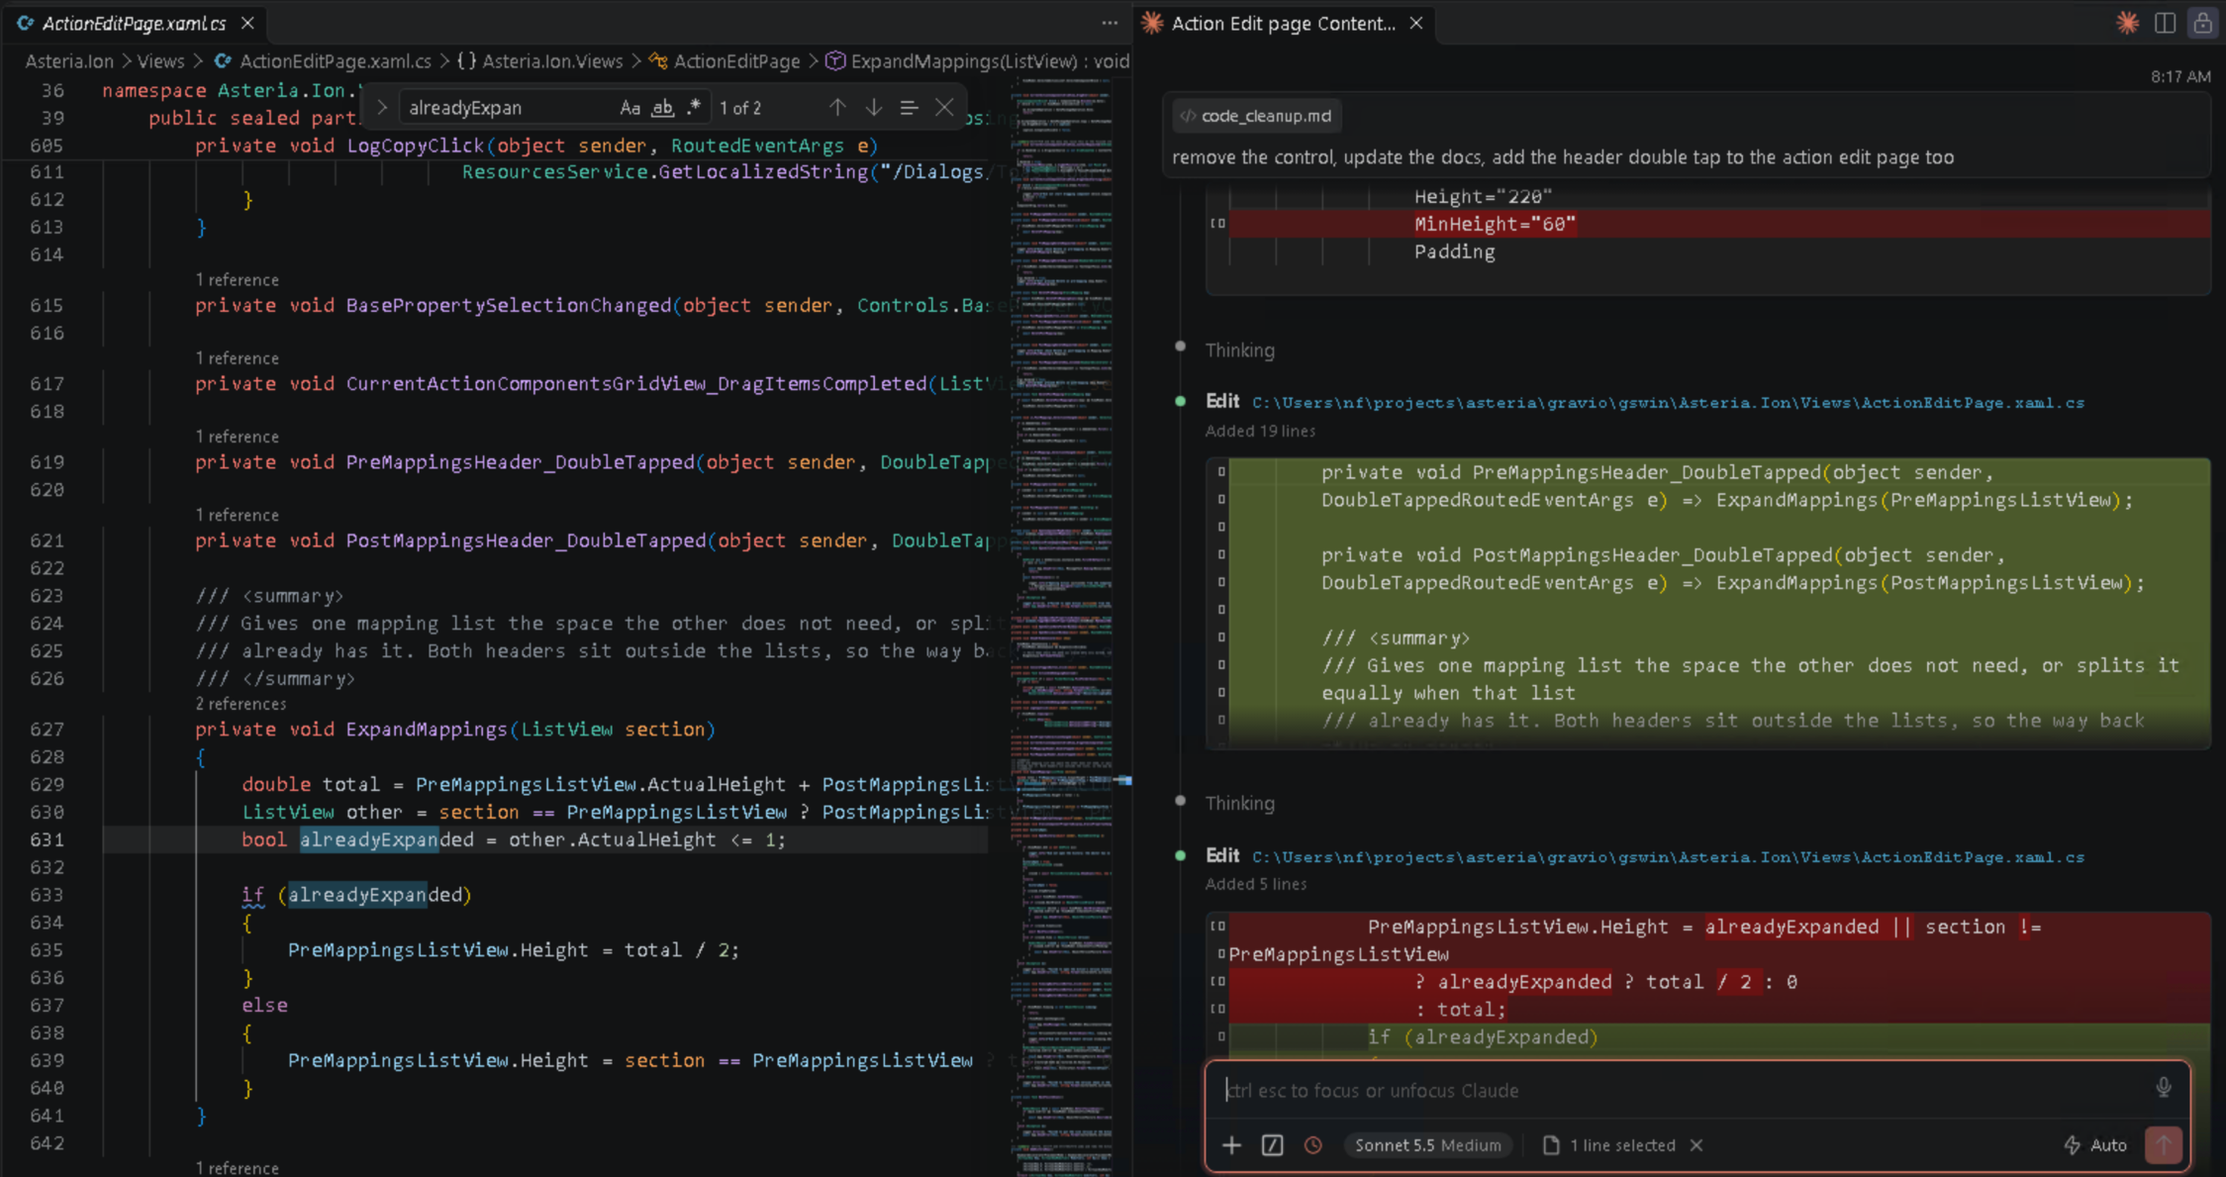
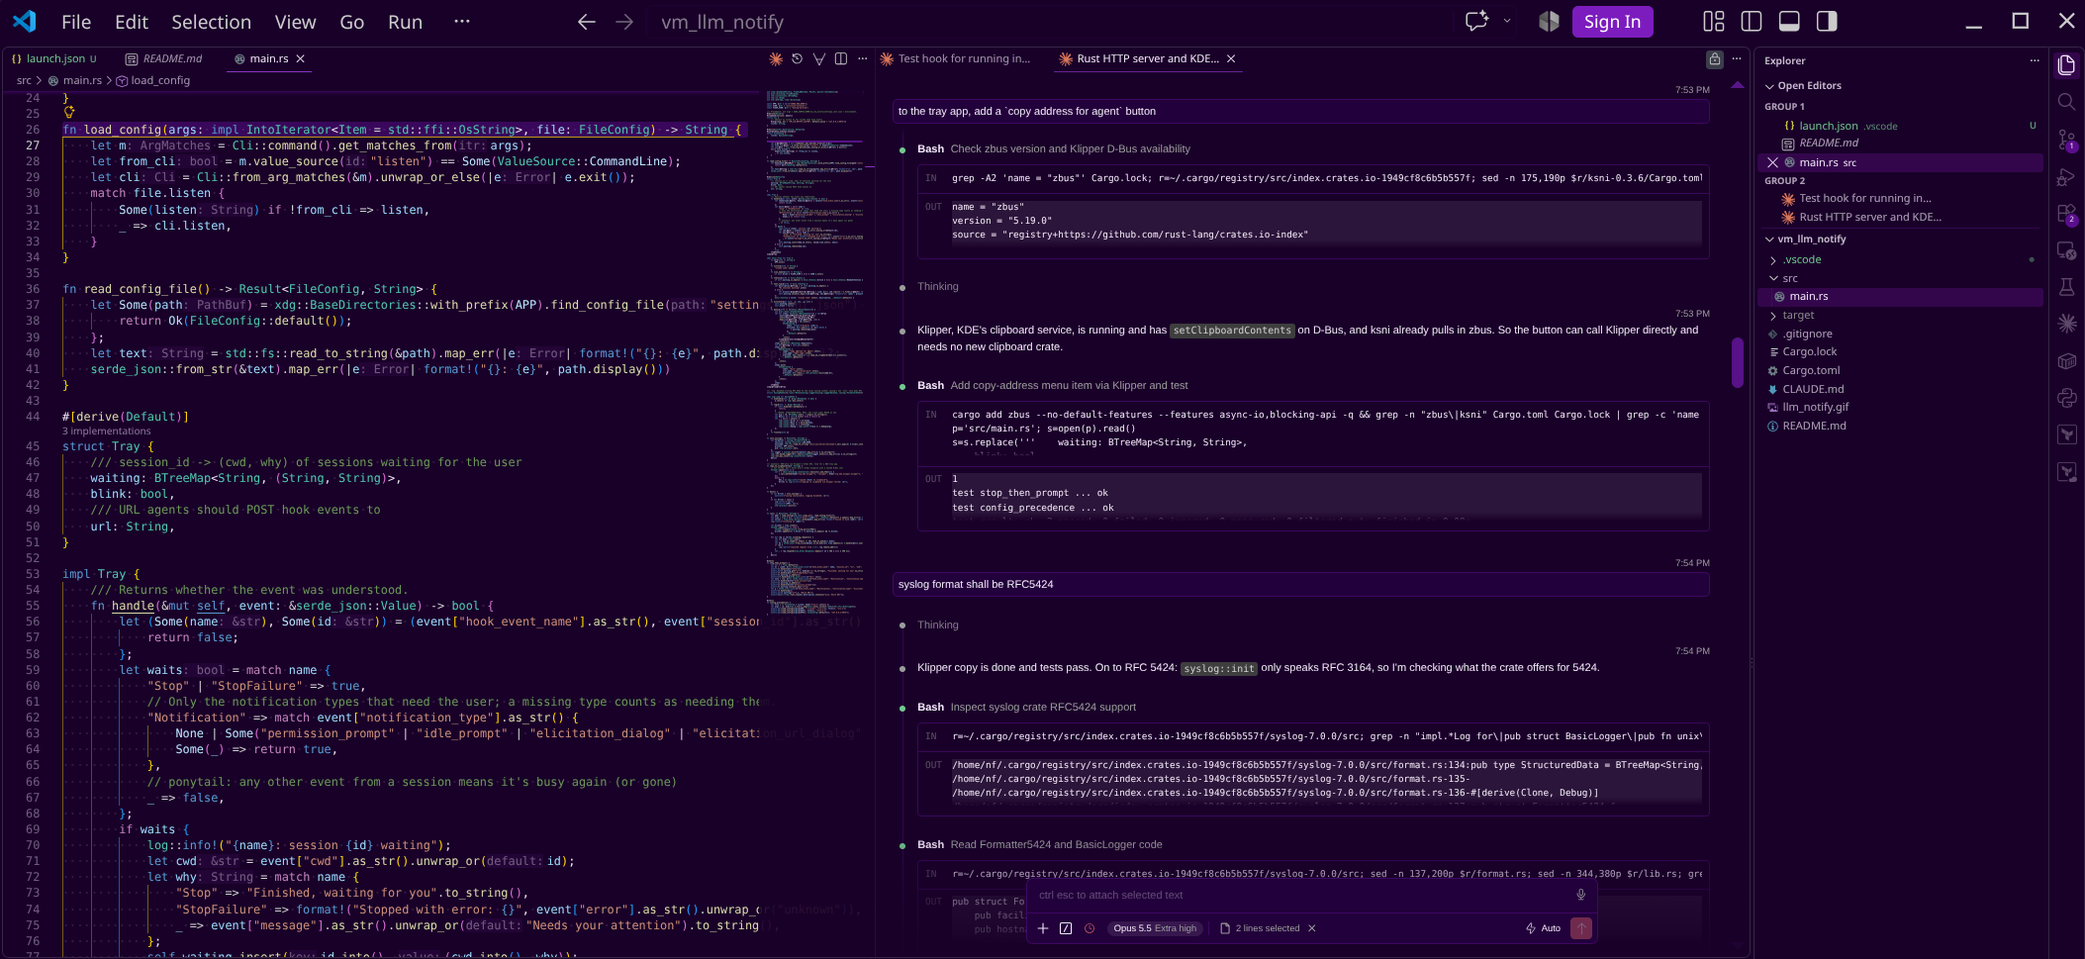
updatd typos

diff --git a/public/posts/agentic/workflows/rev1/index.html b/public/posts/agentic/workflows/rev1/index.html
@@ -1,5 +1,5 @@
 <!DOCTYPE html>
-<html lang="en"><script src="/livereload.js?mindelay=10&amp;v=2&amp;port=1313&amp;path=livereload" data-no-instant defer></script><meta charset="utf-8"><meta name="generator" content="Hugo 0.155.3"><meta name="viewport" content="width=device-width,initial-scale=1,viewport-fit=cover">
+<html lang="en"><script src="/livereload.js?mindelay=10&amp;v=2&amp;port=34247&amp;path=livereload" data-no-instant defer></script><meta charset="utf-8"><meta name="generator" content="Hugo 0.155.3"><meta name="viewport" content="width=device-width,initial-scale=1,viewport-fit=cover">
 <meta name="color-scheme" content="light dark">
 <meta name="supported-color-schemes" content="light dark"><meta name="description" content="Post Summary"><title>Agentic Workflow as of October 2026&nbsp;&ndash;&nbsp;Sidequesting</title><link rel="stylesheet" href="/css/core.min.1912ded78f688bbd516afb7cab34b50ded577caf45cf75bc1af5d38655c05000847900a4cf8d2cfe19578a79343797c0.css" integrity="sha384-GRLe149oi71Ravt8qzS1De1XfK9Fz3W8GvXThlXAUACEeQCkz40s/hlXink0N5fA"><meta name="twitter:card" content="summary" />
 <meta name="twitter:title" content="Agentic Workflow as of October 2026" /><body><section id="header">
@@ -16,7 +16,7 @@ This approach is heavy on docs, folder structure, and copious tools and scripts 
 <li>Provide a space to put observations found during their tasks so don&rsquo;t get distracted and information doesn&rsquo;t get lost</li>
 <li>Keep as much inside the repo as possible, to provide agents with the context on demand that they need</li>
 <li>Provide tools and scripts that can give negative feedback to the agents so they can quickly course-correct on their own</li>
-<li>Give them a runtime of your application to test against in a live setting. Static analysis not enough.</li>
+<li>Give them a runtime of your application to test against in a live setting. Static analysis is not enough.</li>
 </ul>
 <details class="toc" open><summary>Table of Contents</summary><nav id="TableOfContents">
   <ul>
@@ -83,7 +83,7 @@ This approach is heavy on docs, folder structure, and copious tools and scripts 
 </nav></details>
 
 <h1 id="prerequisites">Prerequisites</h1>
-<p>People get different results from the different workflows, tools, models and harnesses they use, so I&rsquo;d like to set out what my particular set up looks like at the outside, so you can adjust your own expectations.</p>
+<p>People get different results from the different workflows, tools, models and harnesses they use, so I&rsquo;d like to set out what my particular set up looks like at the outset, so you can adjust your own expectations.</p>
 <h2 id="models">Models</h2>
 <ul>
 <li>Big Models
@@ -115,12 +115,12 @@ This approach is heavy on docs, folder structure, and copious tools and scripts 
 <li>Anthropic Teams Max Subscription</li>
 <li>OpenAI GPT pay-as-you-go pricing</li>
 </ul>
-<p>Because of this set up, I prefer Claude because my usage is much less restricted. However, due to Anthropic&rsquo;s removal of some &ldquo;bonus tokens&rdquo; they&rsquo;ve been giving out for a while, I am now routinely getting rate limited around Thursday, so it&rsquo;s become common for me to end by week in <em>omp</em> with GPT Sol.</p>
+<p>Because of this set up, I prefer Claude because my usage is much less restricted. However, due to Anthropic&rsquo;s removal of some &ldquo;bonus tokens&rdquo; they&rsquo;ve been giving out for a while, I am now routinely getting rate limited around Thursday, so it&rsquo;s become common for me to end my week in <em>omp</em> with GPT Sol.</p>
 <h2 id="project-ownership">Project Ownership</h2>
 <p>I largely possess autonomous control over how I approach my repositories, so I can structure them however I choose. The descriptions below may not be feasible in your own setups, due to team size, code review requirements, managerial processes, etc. But maybe some of the things herein can still be useful.</p>
 <h1 id="folder-structure">Folder Structure</h1>
-<p>LLMs love to have context, and to have access to more context, so I have a folder structure with some initial files that seem to be working for me.</p>
-<p>I won&rsquo;t explain it in full here, but you should check out my <a href="https://github.com/0xNF/wtstandardrepo"target="_blank" rel="noopener noreferrer">Winetech Standard Repo</a> repo lays out much of how I&rsquo;ve started to structure my repositories these days.</p>
+<p>LLMs love to have context, and to have on-demand access to even more context, so I have a folder structure with some initial files that supports their access patterns, and it has been working for me so far.</p>
+<p>I won&rsquo;t explain it in full here, but you should check out my <a href="https://github.com/0xNF/wtstandardrepo"target="_blank" rel="noopener noreferrer">Winetech Standard Repo</a>, which lays out much of how I&rsquo;ve started to structure my repositories these days.</p>
 <p>In brief, it takes the following shape:</p>
 <div class="highlight"><pre tabindex="0" class="chroma"><code class="language-bash" data-lang="bash"><span class="line"><span class="cl">.
 </span></span><span class="line"><span class="cl">├── docs
@@ -193,9 +193,9 @@ This approach is heavy on docs, folder structure, and copious tools and scripts 
 <pre tabindex="0"><code>0001 — OpenTofu for Infrastructure Provisioning
 0008 — Layered Internal PKI: Offline Root + Online step-ca Intermediate + Short-Lived Auto-Renewed Certs
 0012 — OpenVPN, IPv6-Only Split-Tunnel, Certificate-Only, tls-crypt-v2 Hardened
-</code></pre><p>and it goes on like this. You can reference my standard <a href="https://github.com/0xNF/wtstandardrepo/blob/master/docs/repo/adr/0000-adr-format.md"target="_blank" rel="noopener noreferrer">ADR baseline documen.</a>.</p>
-<p>Because these ADRs are so often references by the models, I endeavor to keep irrelevant information like History out of them. History is still important to maintain, so history goes into its own dedicated history.md file.</p>
-<p>The models really do reference ADRs all the time, and its been such a superpower that keeps them on track and consistent. It also catches my own inconsistencies, where the models will tell me that my own decision contradicts ADR #XYZ, which is a good moment for me to reflect on what I really want from a given session.</p>
+</code></pre><p>and it goes on like this. You can reference my standard <a href="https://github.com/0xNF/wtstandardrepo/blob/master/docs/repo/adr/0000-adr-format.md"target="_blank" rel="noopener noreferrer">ADR baseline document</a>.</p>
+<p>Because these ADRs are routinely referenced by the models, I endeavor to keep irrelevant information, like history, out of them. History is still important to maintain, so it goes into its own dedicated <code>history.md</code> file.</p>
+<p>The models really do reference ADRs all the time, and its been such a superpower that keeps them on track and consistent. It also catches inconsistencies in my requests, where the models will tell me that my own decision contradicts ADR #XYZ, which is a good moment for me to reflect on what I really want from a given session.</p>
 <p>ADRs are not considered static &ndash; I edit them in place, and occasionally delete, reorganize, or adjust them as needed.</p>
 <h2 id="investigations"><code>investigations/</code></h2>
 <p>Sometimes a problem is found during a session, like an intermittent crash. It is helpful to provide the agent a place to put repeated observations of an issue along with a summary of the issue in the investigations README file. Once enough observations have been logged, it becomes its own dedicated session and can be used as the starting point for a full-on investigation. The benefit of doing it this way is that the agent won&rsquo;t get distracted during a session, can recognize known failures, and eventually can work on this one problem full-time.</p>
@@ -343,7 +343,7 @@ The purpose of this ticket structure is that it outlines clearly why this is an 
 For instance, I noticed that the agents kept ad-hoc writing scripts to uninstall and reinstall an application, so instead of letting it waste tokens, and each time doing it slightly differnetly, I gave it a script that does it, consistently, every time. Now it knows to call <code>install_newest.ps1</code> and it will wait for it to finish before continuing.</p>
 <p>It pays to pay attention to what the agents are doing, to work alongside them.</p>
 <h1 id="agentsmd-and-memories">AGENTS.md and Memories</h1>
-<p>A good AGENTS.md (née CLAUDE.md) file is mandatory for giving agents the initial overview and philosophy of your repository. Everyone knows this, so i won&rsquo;t spend muxh time on it here.</p>
+<p>A good AGENTS.md (née CLAUDE.md) file is mandatory for giving agents the initial overview and philosophy of your repository. Everyone knows this, so i won&rsquo;t spend much time on it here.</p>
 <h2 id="agentsmd">AGENTS.md</h2>
 <p>In my case, my AGENTS.md contains things like:</p>
 <ul>
@@ -365,7 +365,7 @@ For instance, I noticed that the agents kept ad-hoc writing scripts to uninstall
 <h2 id="skills">Skills</h2>
 <p>I have not generally found skills to be very useful. I have nothing in particular to write here on the subject.</p>
 <h2 id="pruning-files-when-they-get-too-big-or-outdated">Pruning files when they get too big or outdated</h2>
-<p>Token budgets are not unlimited, and context size must be managed. To that end, one must consider on occasion to revisit the files you are asking the agents to work with on every request.</p>
+<p>Token budgets are not unlimited, and context size must be managed. To that end, one must on occasion revisiting the files you are asking the agents to work with on every request.</p>
 <p>AGENTS.md should be kept under <code>10,000</code> tokens, and even that is pushing it. Remember that this is sent on every request. It is worth looking at what needs to be understood all the time, versus what only needs to be understood some of the time, versus what doesnt need to be understood at all.</p>
 <p>If assumptions are outdated or have conflicting instructions, delete them. If things only apply some of the time, extract those sections to their own ADR or Workflow documents, and then put a reference in instead.</p>
 <p>As simple as it can get, but no simpler.</p>
@@ -377,7 +377,7 @@ For instance, I noticed that the agents kept ad-hoc writing scripts to uninstall
 <p>Because I have what I consider to be fairly well crafted initial documents and on-demand context available for the agents, I don&rsquo;t put too much effort into my prompts, which are concise and minimal.</p>
 <ul>
 <li>&ldquo;Read this $document, and address the issues&rdquo;</li>
-<li>&ldquo;Fix the bugs describes by the cleanup&rdquo;</li>
+<li>&ldquo;Fix the bugs described by the cleanup&rdquo;</li>
 <li>&ldquo;Continue working on this plan file&rdquo;</li>
 </ul>
 <p>Except in rare circumstances, I don&rsquo;t write any additional context, because I&rsquo;ve already given the context in the AGENTS.md, ADRs, and plan files.</p>

diff --git a/public/ja/posts/agentic/workflows/rev1/index.html b/public/ja/posts/agentic/workflows/rev1/index.html
@@ -1,5 +1,5 @@
 <!DOCTYPE html>
-<html lang="ja"><script src="/livereload.js?mindelay=10&amp;v=2&amp;port=1313&amp;path=livereload" data-no-instant defer></script><meta charset="utf-8"><meta name="generator" content="Hugo 0.155.3"><meta name="viewport" content="width=device-width,initial-scale=1,viewport-fit=cover">
+<html lang="ja"><script src="/livereload.js?mindelay=10&amp;v=2&amp;port=34247&amp;path=livereload" data-no-instant defer></script><meta charset="utf-8"><meta name="generator" content="Hugo 0.155.3"><meta name="viewport" content="width=device-width,initial-scale=1,viewport-fit=cover">
 <meta name="color-scheme" content="light dark">
 <meta name="supported-color-schemes" content="light dark"><meta name="description" content="記事の要約"><title>2026年10月時点のエージェント開発ワークフロー&nbsp;&ndash;&nbsp;Sidequesting</title><link rel="stylesheet" href="/css/core.min.1912ded78f688bbd516afb7cab34b50ded577caf45cf75bc1af5d38655c05000847900a4cf8d2cfe19578a79343797c0.css" integrity="sha384-GRLe149oi71Ravt8qzS1De1XfK9Fz3W8GvXThlXAUACEeQCkz40s/hlXink0N5fA"><meta name="twitter:card" content="summary" />
 <meta name="twitter:title" content="2026年10月時点のエージェント開発ワークフロー" /><body><section id="header">

diff --git a/public/posts/oauth1/index.html b/public/posts/oauth1/index.html
@@ -1,5 +1,5 @@
 <!DOCTYPE html>
-<html lang="en"><script src="/livereload.js?mindelay=10&amp;v=2&amp;port=1313&amp;path=livereload" data-no-instant defer></script><meta charset="utf-8"><meta name="generator" content="Hugo 0.155.3"><meta name="viewport" content="width=device-width,initial-scale=1,viewport-fit=cover">
+<html lang="en"><script src="/livereload.js?mindelay=10&amp;v=2&amp;port=34247&amp;path=livereload" data-no-instant defer></script><meta charset="utf-8"><meta name="generator" content="Hugo 0.155.3"><meta name="viewport" content="width=device-width,initial-scale=1,viewport-fit=cover">
 <meta name="color-scheme" content="light dark">
 <meta name="supported-color-schemes" content="light dark"><meta name="description" content="Prologue
 OAuth is a common peice of web technology infrastructure that underpins many common websites.

diff --git a/content/posts/agentic/workflows/rev1/index.md b/content/posts/agentic/workflows/rev1/index.md
@@ -22,14 +22,14 @@ My current approach is codified by the [Winetech Standard Repo](https://github.c
 * Provide a space to put observations found during their tasks so don't get distracted and information doesn't get lost
 * Keep as much inside the repo as possible, to provide agents with the context on demand that they need
 * Provide tools and scripts that can give negative feedback to the agents so they can quickly course-correct on their own
-* Give them a runtime of your application to test against in a live setting. Static analysis not enough.
+* Give them a runtime of your application to test against in a live setting. Static analysis is not enough.
 
 {{< toc >}}
 
 
 # Prerequisites
 
-People get different results from the different workflows, tools, models and harnesses they use, so I'd like to set out what my particular set up looks like at the outside, so you can adjust your own expectations.
+People get different results from the different workflows, tools, models and harnesses they use, so I'd like to set out what my particular set up looks like at the outset, so you can adjust your own expectations.
 
 ## Models
 * Big Models
@@ -57,7 +57,7 @@ Because Anthropic doesn't permit using their Max subscriptions in other harnesse
 * Anthropic Teams Max Subscription
 * OpenAI GPT pay-as-you-go pricing
 
-Because of this set up, I prefer Claude because my usage is much less restricted. However, due to Anthropic's removal of some "bonus tokens" they've been giving out for a while, I am now routinely getting rate limited around Thursday, so it's become common for me to end by week in _omp_ with GPT Sol.
+Because of this set up, I prefer Claude because my usage is much less restricted. However, due to Anthropic's removal of some "bonus tokens" they've been giving out for a while, I am now routinely getting rate limited around Thursday, so it's become common for me to end my week in _omp_ with GPT Sol.
 
 
 ## Project Ownership
@@ -65,9 +65,9 @@ I largely possess autonomous control over how I approach my repositories, so I c
 
 
 # Folder Structure
-LLMs love to have context, and to have access to more context, so I have a folder structure with some initial files that seem to be working for me.
+LLMs love to have context, and to have on-demand access to even more context, so I have a folder structure with some initial files that supports their access patterns, and it has been working for me so far.
 
-I won't explain it in full here, but you should check out my [Winetech Standard Repo](https://github.com/0xNF/wtstandardrepo) repo lays out much of how I've started to structure my repositories these days.
+I won't explain it in full here, but you should check out my [Winetech Standard Repo](https://github.com/0xNF/wtstandardrepo), which lays out much of how I've started to structure my repositories these days.
 
 In brief, it takes the following shape:
 ```bash
@@ -156,11 +156,11 @@ This is an AWS deployment:
 0012 — OpenVPN, IPv6-Only Split-Tunnel, Certificate-Only, tls-crypt-v2 Hardened
 ```
 
-and it goes on like this. You can reference my standard [ADR baseline documen.](https://github.com/0xNF/wtstandardrepo/blob/master/docs/repo/adr/0000-adr-format.md).
+and it goes on like this. You can reference my standard [ADR baseline document](https://github.com/0xNF/wtstandardrepo/blob/master/docs/repo/adr/0000-adr-format.md).
 
-Because these ADRs are so often references by the models, I endeavor to keep irrelevant information like History out of them. History is still important to maintain, so history goes into its own dedicated history.md file.
+Because these ADRs are routinely referenced by the models, I endeavor to keep irrelevant information, like history, out of them. History is still important to maintain, so it goes into its own dedicated `history.md` file.
 
-The models really do reference ADRs all the time, and its been such a superpower that keeps them on track and consistent. It also catches my own inconsistencies, where the models will tell me that my own decision contradicts ADR #XYZ, which is a good moment for me to reflect on what I really want from a given session.
+The models really do reference ADRs all the time, and its been such a superpower that keeps them on track and consistent. It also catches inconsistencies in my requests, where the models will tell me that my own decision contradicts ADR #XYZ, which is a good moment for me to reflect on what I really want from a given session.
 
 ADRs are not considered static -- I edit them in place, and occasionally delete, reorganize, or adjust them as needed. 
 
@@ -350,7 +350,7 @@ For instance, I noticed that the agents kept ad-hoc writing scripts to uninstall
 It pays to pay attention to what the agents are doing, to work alongside them.
 
 # AGENTS.md and Memories
-A good AGENTS.md (née CLAUDE.md) file is mandatory for giving agents the initial overview and philosophy of your repository. Everyone knows this, so i won't spend muxh time on it here.
+A good AGENTS.md (née CLAUDE.md) file is mandatory for giving agents the initial overview and philosophy of your repository. Everyone knows this, so i won't spend much time on it here.
 
 ## AGENTS.md
 In my case, my AGENTS.md contains things like:
@@ -380,7 +380,7 @@ I have not generally found skills to be very useful. I have nothing in particula
 
 
 ## Pruning files when they get too big or outdated
-Token budgets are not unlimited, and context size must be managed. To that end, one must consider on occasion to revisit the files you are asking the agents to work with on every request.
+Token budgets are not unlimited, and context size must be managed. To that end, one must on occasion revisiting the files you are asking the agents to work with on every request.
 
 AGENTS.md should be kept under `10,000` tokens, and even that is pushing it. Remember that this is sent on every request. It is worth looking at what needs to be understood all the time, versus what only needs to be understood some of the time, versus what doesnt need to be understood at all. 
 
@@ -400,7 +400,7 @@ Condense, Extract, Delete.
 Because I have what I consider to be fairly well crafted initial documents and on-demand context available for the agents, I don't put too much effort into my prompts, which are concise and minimal.
 
 * "Read this $document, and address the issues"
-* "Fix the bugs describes by the cleanup"
+* "Fix the bugs described by the cleanup"
 * "Continue working on this plan file"
 
 Except in rare circumstances, I don't write any additional context, because I've already given the context in the AGENTS.md, ADRs, and plan files. 
